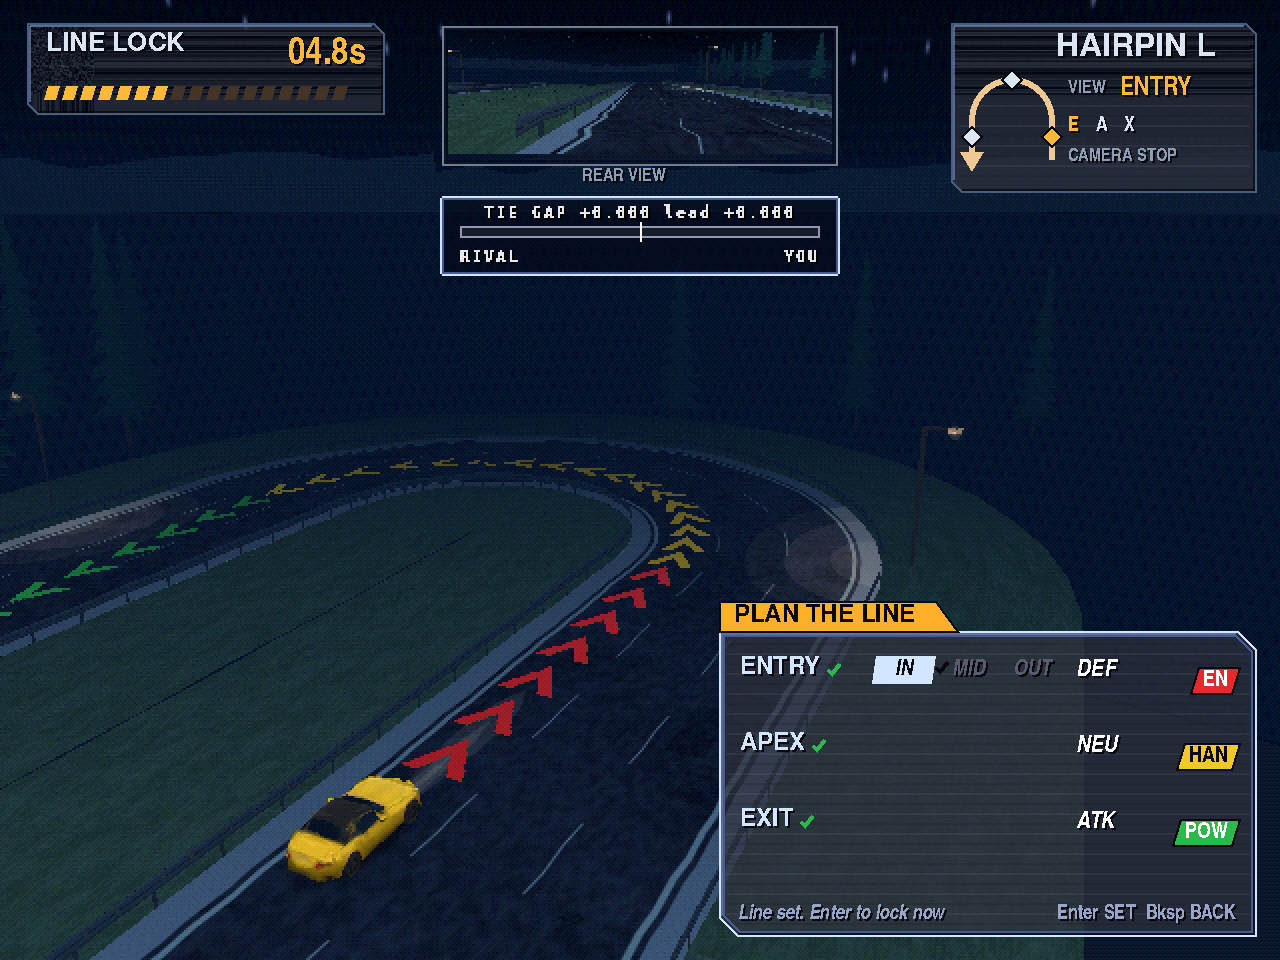
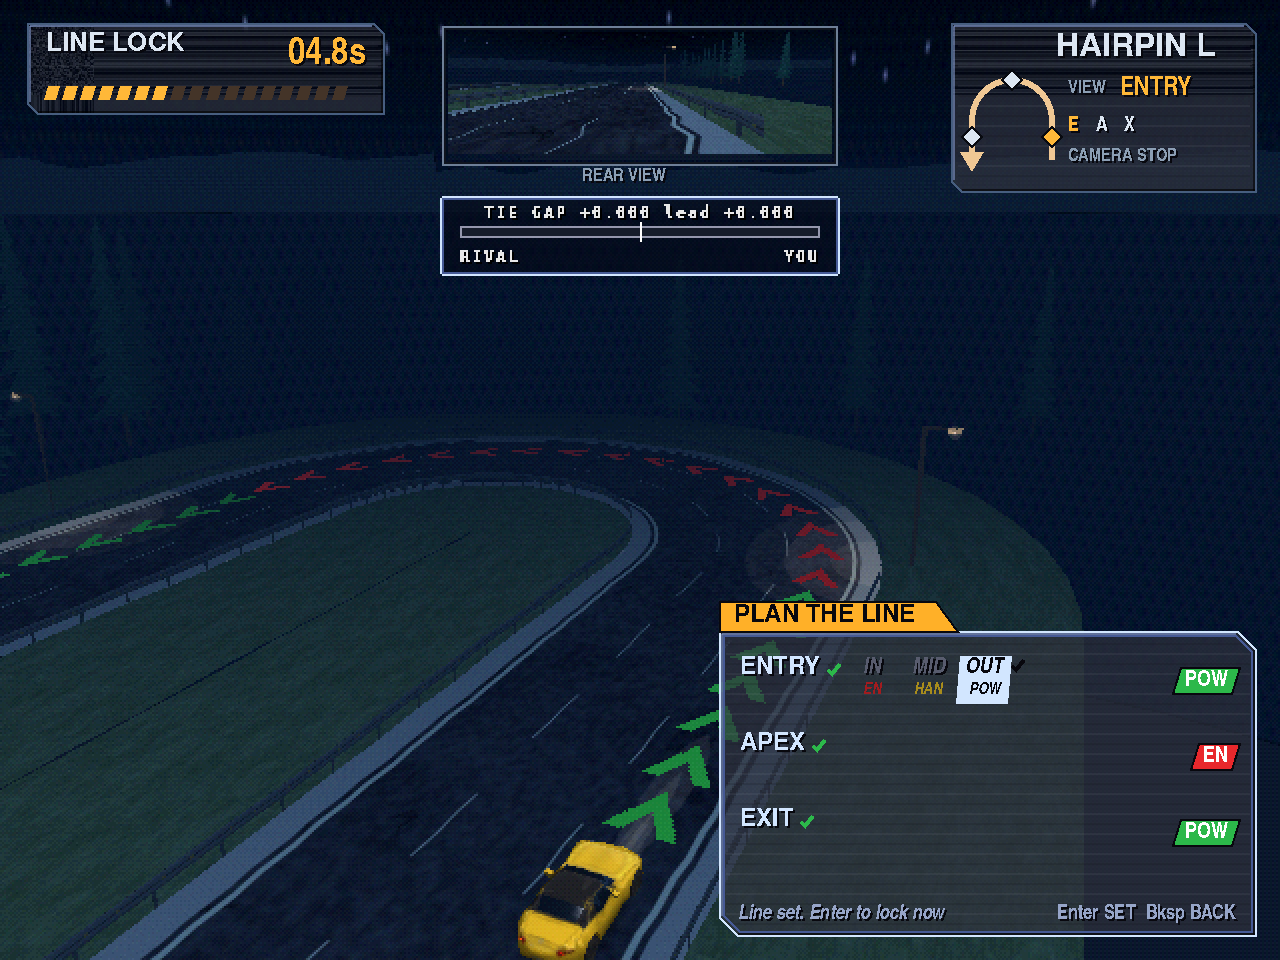
Add unapproved line-preview pass 3: stance variants, POW/EN/HAN labels, flipped bends
Canonical sequence is Entry OUT+POW, Apex EN, Exit POW on every frame. New camera-stop variants show chained Apex and Exit previews with dimmer follow-on segments. Stance labels are POW/EN/HAN; POW holds the outer line, EN cuts inside, HAN runs mid-lane.

diff --git a/unapproved/arthur/mockups/line_preview/make_sheet.py b/unapproved/arthur/mockups/line_preview/make_sheet.py
@@ -7,16 +7,16 @@ from PIL import Image, ImageDraw, ImageFont
 
 ROOT = Path(__file__).resolve().parent
 OVERVIEW = [
-    ("1_entry_out_atk.png", "1  ENTRY OUT  hover ATK"),
-    ("2_apex_def.png", "2  ENTRY locked OUT/ATK   APEX hover DEF"),
-    ("3_apex_atk.png", "3  ENTRY locked OUT/ATK   APEX hover ATK"),
-    ("4_exit_atk.png", "4  ENTRY IN/DEF   APEX NEU   EXIT hover ATK"),
-    ("5_locked.png", "5  ALL THREE LOCKED"),
+    ("1_entry_out_pow.png", "1  ENTRY OUT  hover POW"),
+    ("2_apex_en.png", "2  ENTRY locked OUT/POW   APEX hover EN"),
+    ("3_apex_pow.png", "3  ENTRY locked OUT/POW   APEX hover POW"),
+    ("4_exit_pow.png", "4  ENTRY OUT/POW   APEX EN   EXIT hover POW"),
+    ("5_locked.png", "5  ALL THREE LOCKED  OUT/POW  EN  POW"),
 ]
 CAMSTOPS = [
-    ("1_entry_out_atk_camstop.png", "1  ENTRY chase cam  OUT hover ATK"),
-    ("2_apex_def_camstop.png", "2  APEX stop  ENTRY OUT/ATK  hover DEF"),
-    ("4_exit_atk_camstop.png", "4  EXIT stop  IN/DEF  NEU  hover ATK"),
+    ("1_entry_out_pow_camstop.png", "1  ENTRY chase cam  OUT hover POW"),
+    ("2_apex_en_camstop.png", "2  APEX stop  ENTRY OUT/POW  hover EN"),
+    ("4_exit_pow_camstop.png", "4  EXIT stop  ENTRY OUT/POW  APEX EN  hover POW"),
 ]
 LABEL_H = 36
 GAP = 8
@@ -71,9 +71,65 @@ def build(frames, out_name, cols, center_last_row=False):
     return out
 
 
+VARIANTS_ENTRY = [
+    ("a_entry_out_pow.png", "A  ENTRY stop  OUT hover POW  — implied Apex EN + Exit POW (dimmer)"),
+]
+VARIANTS_APEX = [
+    ("b_apex_pow.png", "B  APEX  Entry locked OUT/POW  hover POW  — Exit POW dimmer"),
+    ("b_apex_han.png", "B  APEX  Entry locked OUT/POW  hover HAN  — Exit POW dimmer"),
+    ("b_apex_en.png", "B  APEX  Entry locked OUT/POW  hover EN  — Exit POW dimmer"),
+]
+VARIANTS_EXIT = [
+    ("c_exit_pow.png", "C  EXIT  Entry OUT/POW  Apex EN locked  hover POW"),
+    ("c_exit_han.png", "C  EXIT  Entry OUT/POW  Apex EN locked  hover HAN"),
+    ("c_exit_en.png", "C  EXIT  Entry OUT/POW  Apex EN locked  hover EN"),
+]
+
+
+def build_variants_sheet():
+    """Row 1: Entry A (centred). Row 2: Apex POW / HAN / EN. Row 3: Exit POW / HAN / EN."""
+    rows = [VARIANTS_ENTRY, VARIANTS_APEX, VARIANTS_EXIT]
+    tiles_rows = []
+    for row in rows:
+        tiles = []
+        for name, label in row:
+            path = ROOT / name
+            if not path.exists():
+                print("skip missing variants sheet, need", path)
+                return None
+            tiles.append((Image.open(path).convert("RGB"), label))
+        tiles_rows.append(tiles)
+    tw, th = tiles_rows[1][0][0].size
+    cols = 3
+    W = cols * tw + (cols + 1) * GAP
+    H = 3 * (th + LABEL_H) + 4 * GAP
+    sheet = Image.new("RGB", (W, H), BG)
+    f = font(20)
+    for r, tiles in enumerate(tiles_rows):
+        n = len(tiles)
+        for c, (im, label) in enumerate(tiles):
+            if n < cols:
+                x = (W - n * tw - (n + 1) * GAP) // 2 + c * (tw + GAP) + GAP
+            else:
+                x = GAP + c * (tw + GAP)
+            y = GAP + r * (th + LABEL_H + GAP)
+            sheet.paste(im, (x, y))
+            bar = Image.new("RGB", (tw, LABEL_H), (18, 22, 36))
+            bd = ImageDraw.Draw(bar)
+            bd.rectangle([0, 0, tw - 1, LABEL_H - 1], outline=(71, 94, 127))
+            bd.text((10, 8), label, font=f, fill=AMBER)
+            sheet.paste(bar, (x, y + th))
+    sheet = sheet.resize((sheet.size[0] * 2, sheet.size[1] * 2), Image.NEAREST)
+    out = ROOT / "line_preview_stance_variants.png"
+    sheet.save(out, optimize=True)
+    print("wrote", out, sheet.size)
+    return out
+
+
 def main():
     build(OVERVIEW, "line_preview_sheet.png", 3, center_last_row=True)
     build(CAMSTOPS, "line_preview_camstops_sheet.png", 3, center_last_row=False)
+    build_variants_sheet()
 
 
 if __name__ == "__main__":

diff --git a/unapproved/arthur/mockups/line_preview/README.md b/unapproved/arthur/mockups/line_preview/README.md
@@ -2,37 +2,46 @@
 
 B.5d during line select: a racing-line preview is drawn on the road as a row of flat chevrons, chaining phase by phase. These frames are rendered in Godot 4.6.3 from a **copy** of Gordon's two-corner editor scenes (`unapproved/gordon/two-corner/godot/scenes/`). Gordon's files are not edited. `run.sh` stages his track, dressing, cars, HUD and shaders into `godot/`, then overlays the files in this folder.
 
-Pass 2 matches Gordon's current build (shots11) for the camera-stop frames: his left-hand Touge hairpin (`HAIRPIN L`), his chase / Apex / Exit camera stops, his in-world IN / MID / OUT lane markers, and his dark navy touge asphalt. His debug box is left out. The intended differences are the B.5d chevrons and the grain / bevel / heavier type on the plates.
+Camera-stop frames match Gordon's current build (shots11): his left-hand Touge hairpin (`HAIRPIN L`), his chase / Apex / Exit camera stops, his in-world IN / MID / OUT lane markers, and his dark navy touge asphalt. His debug box is left out. The intended differences are the B.5d chevrons and the grain / bevel / heavier type on the plates.
 
 ## What the frames show
 
 Overview frames use a high camera above and outside the left hairpin so the whole hook is visible. Camera-stop frames use Gordon's B.5b poses (same math as `main.gd`, framed like `prototypes/two-corner/out/shots11/gif_frames/f00030.png` for Entry and the Apex / Exit stops in that sequence). Road, lamps and pools are his touge dressing, not the earlier pack overlay, so the asphalt stays dark navy grey outside the sodium pools (B.2a). Grit reads mainly inside the pools.
 
-Chevrons (B.5d, Austin 2026-11-12): painted flat on the road in the 3D layer, pointing in the direction of travel, evenly spaced. Each segment is solid in that segment's stance colour (ATK `#2CB84A`, DEF `#E8282C`, NEU `#F0C828`). A slight brightness ramp along a segment, no yellow-to-red gradient across the line. Confirmed segments are solid; the hovered segment is a lighter, slightly gapped variant. No glow.
+Chevrons (B.5d): painted flat on the road in the 3D layer, pointing in the direction of travel, evenly spaced. Each segment is solid in that segment's stance colour (POW `#2CB84A`, EN `#E8282C`, HAN `#F0C828`). A slight brightness ramp along a segment, no yellow-to-red gradient across the line. Locked / hovered segments are solid (hovered is a lighter, slightly gapped variant). Not-yet-chosen follow-on segments use the same hue, dimmer. No glow.
 
-Placeholder bends (until Austin approves): the Entry segment stays in the chosen Entry lane. The Apex segment starts where Entry ended; ATK cuts toward the inside by 2/3 of a lane width, DEF holds the outside line, NEU runs mid-lane. Exit starts where Apex ended and uses the same map.
+Canonical sequence everywhere: Entry OUT + POW, Apex EN, Exit POW. Placeholder bends (Austin 2026-11-12): the Entry segment stays in the chosen Entry lane. The Apex segment starts where Entry ended; POW bends to the outer line of the corner, EN cuts toward the inner line by 2/3 of a lane width, HAN runs mid-lane. Exit starts where Apex ended and uses the same map. This matches the lanes: OUT = POW, IN = EN, MID = HAN, the same on left and right turns.
+
+### Pass 3 stance variants (camera-stop framing)
+
+One contact sheet, plus the individual PNGs. Implied follow-on segments are drawn dimmer.
+
+- `a_entry_out_pow.png` — Entry stop, OUT hovering POW. Chevrons show the green Entry segment and continue into the implied Apex EN and Exit POW (dimmer).
+- `b_apex_pow.png`, `b_apex_han.png`, `b_apex_en.png` — Apex stop, Entry locked OUT/POW, hovering POW / HAN / EN. Each Apex line starts where the Entry line ends, and also draws the Exit POW preview chained from that Apex end (dimmer green).
+- `c_exit_pow.png`, `c_exit_han.png`, `c_exit_en.png` — Exit stop, Entry OUT/POW and Apex EN locked, hovering POW / HAN / EN. Each Exit starts from the Apex EN end. Segment colours: green, red, then the hovered colour.
+- `line_preview_stance_variants.png` — row 1 Entry A (centred); row 2 Apex POW / HAN / EN; row 3 Exit POW / HAN / EN.
 
 ### Overview (high camera)
 
-1. `1_entry_out_atk.png` — Entry = OUT, hovering ATK at Entry.
-2. `2_apex_def.png` — Entry locked OUT/ATK, Apex hovering DEF.
-3. `3_apex_atk.png` — Same, Apex hovering ATK (the bend changes).
-4. `4_exit_atk.png` — Entry IN/DEF, Apex NEU, Exit hovering ATK.
-5. `5_locked.png` — All three locked.
+1. `1_entry_out_pow.png` — Entry = OUT, hovering POW at Entry (implied follow-on drawn).
+2. `2_apex_en.png` — Entry locked OUT/POW, Apex hovering EN.
+3. `3_apex_pow.png` — Same, Apex hovering POW (the bend holds the outer line).
+4. `4_exit_pow.png` — Entry OUT/POW, Apex EN, Exit hovering POW.
+5. `5_locked.png` — All three locked: OUT/POW, EN, POW.
 6. `line_preview_sheet.png` — labelled contact sheet.
 
 ### Camera stops (B.5b, matching shots11)
 
-1. `1_entry_out_atk_camstop.png` — same beat as overview 1, from the fixed chase camera. Rival visible (Entry tell). IN / MID / OUT lane markers on the road. Rear-view on.
-2. `2_apex_def_camstop.png` — same beat as overview 2, from the Apex stop. Geometry only (no cars, no mirror).
-3. `4_exit_atk_camstop.png` — same beat as overview 4, from the Exit stop. Geometry only.
+1. `1_entry_out_pow_camstop.png` — same beat as overview 1, from the fixed chase camera. Rival visible (Entry tell). IN / MID / OUT lane markers on the road. Rear-view on.
+2. `2_apex_en_camstop.png` — same beat as overview 2, from the Apex stop. Geometry only (no cars, no mirror).
+3. `4_exit_pow_camstop.png` — same beat as overview 4, from the Exit stop. Geometry only.
 4. `line_preview_camstops_sheet.png` — labelled contact sheet of those three.
 
 ## HUD layout (these frames only)
 
-Austin 2026-11-12: the old bottom-left ENTRY IN/MID/OUT strip and the bottom-right PLAN THE LINE panel showed the same choices, so they are one panel, still bottom right. Three phase rows (ENTRY, APEX, EXIT). The active row is amber-highlighted with a caret; on Entry you pick the lane (IN / MID / OUT, left-corner on-screen order) and the stance (ATK / NEU / DEF) on that row; on Apex and Exit you pick the stance the same way. Locked rows keep the chosen lane (Entry) and stance plus the POW / HAN / EN chip. Pending rows show dashes. The bottom-left strip is gone. The race-split / tie-gap bar moves to the top centre, directly under the REAR VIEW label (the same slot when the mirror is off at the Apex and Exit stops). Gordon's files are untouched; this is only in the mockup HUD copies.
+Combined PLAN THE LINE panel, bottom right. Three phase rows (ENTRY, APEX, EXIT). The active row is amber-highlighted with a caret. On Entry you pick the lane (IN / MID / OUT, left-corner on-screen order) and the stance (POW / HAN / EN) on that row; each lane carries a small note of the stat it needs (OUT = POW, MID = HAN, IN = EN). On Apex and Exit you pick the stance the same way. Locked rows show the chosen lane (Entry) and a single coloured stance chip (POW / HAN / EN) — there is no second tag chip. The hovered stance on the active row is the highlighted chip. Pending rows show dashes. The race-split / tie-gap bar sits at the top centre, directly under the REAR VIEW label (the same slot when the mirror is off at the Apex and Exit stops). Gordon's files are untouched; this is only in the mockup HUD copies.
 
-Pipeline: 3D at 640×480 with no AA, then RGB555 + 4×4 Bayer, then one 2× nearest upscale. The HUD is composited after that, drawn sharp and pixel-hard at 1280×960 (no font AA, 2 px hard shadow). Plates use a noisy fill, a hard bevel and light banding, with heavier titles, in a Racing Lagoon / Gran Turismo 2 direction. Stance colours are unchanged.
+Pipeline: 3D at 640×480 with no AA, then RGB555 + 4×4 Bayer, then one 2× nearest upscale. The HUD is composited after that, drawn sharp and pixel-hard at 1280×960 (no font AA, 2 px hard shadow). Plates use a noisy fill, a hard bevel and light banding, with heavier titles, in a Racing Lagoon / Gran Turismo 2 direction.
 
 ## Godot paths
 
